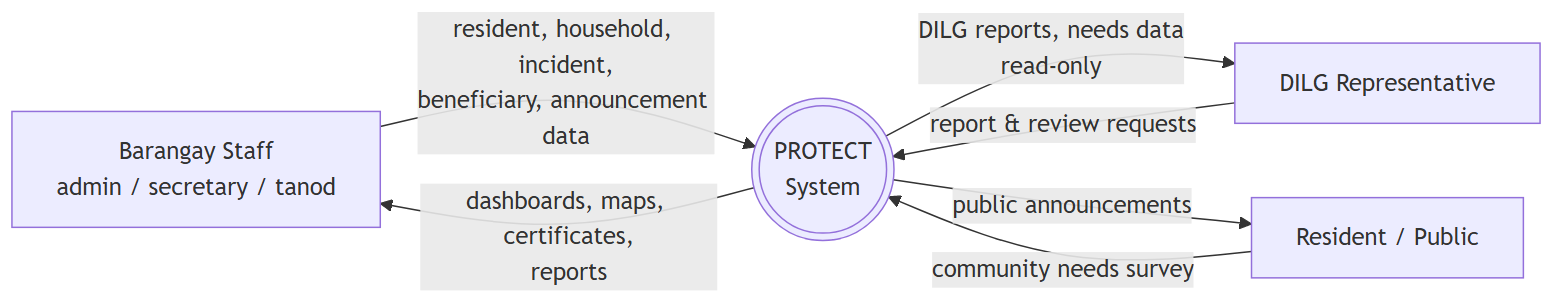
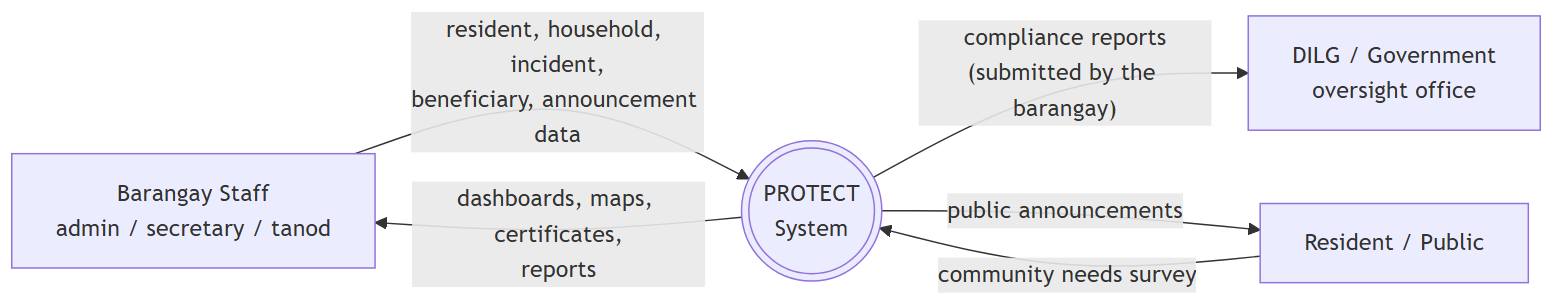
Remove dilg_rep role; model DILG as external report recipient
The DILG does not log into the system — the barangay generates DILG
reports and submits them. Removed the dilg_rep login role from
permissions, User Management, docs, and the SQL constraint (with a
migration of any existing dilg_rep accounts to viewer). DILG now appears
only as an external entity in the DFD. Removed the DILG actor from the
Use Case diagram and re-rendered the affected diagrams; synced the
embedded DIAGRAMS.md flowchart/DFD blocks.

diff --git a/src/lib/permissions.js b/src/lib/permissions.js
@@ -3,7 +3,6 @@ export const ROLE_LABELS = {
   officer:  'Barangay Officer',
   brgy_sec: 'Barangay Secretary',
   tanod:    'Barangay Tanod',
-  dilg_rep: 'DILG Representative',
   viewer:   'Viewer',
 }
 
@@ -15,7 +14,6 @@ export const ROLE_ROUTES = {
   officer:  ALL_ROUTES,
   brgy_sec: ALL_ROUTES,
   tanod:    ['/', '/crime-map', '/crime'],
-  dilg_rep: ['/', '/reports', '/needs'],
   viewer:   ['/', '/residents', '/qr', '/population', '/poverty', '/sectors', '/gis', '/crime-map', '/disaster', '/beneficiary', '/crime', '/predictive', '/needs'],
 }
 
@@ -25,7 +23,7 @@ export function canAccess(role, path) {
 }
 
 // Roles that may only VIEW data — no create / edit / delete / import.
-export const READONLY_ROLES = ['viewer', 'dilg_rep']
+export const READONLY_ROLES = ['viewer']
 
 // True if the role is allowed to make changes (add/edit/delete).
 export function canEdit(role) {

diff --git a/src/pages/UserManagement.jsx b/src/pages/UserManagement.jsx
@@ -13,7 +13,6 @@ const ROLE_BADGE = {
   officer:  'teal',
   brgy_sec: 'blue',
   tanod:    'gold',
-  dilg_rep: 'purple',
   viewer:   'gray',
 }
 
@@ -120,7 +119,6 @@ export default function UserManagement() {
             { role: 'officer',  pages: 'All pages — full system access' },
             { role: 'brgy_sec', pages: 'All pages — full system access' },
             { role: 'tanod',    pages: 'Dashboard, Crime Hotspot Map, Crime & Incident' },
-            { role: 'dilg_rep', pages: 'Dashboard, DILG Reports, Needs Assessment' },
             { role: 'viewer',   pages: 'Most pages — no QR Verification or DILG Reports' },
           ].map(({ role, pages }) => (
             <div key={role} className="flex gap-3 p-3 rounded-xl border border-gray-100 bg-gray-50">

diff --git a/DIAGRAMS.md b/DIAGRAMS.md
@@ -15,8 +15,11 @@ Three diagrams for the capstone documentation, derived from the actual system:
 |-------|--------|
 | **Barangay Secretary / Officer** (admin · officer · brgy_sec) | Everything — resident/household profiling, GIS, QR + documents, beneficiaries + assistance, announcements, incidents + status, hotspot + disaster maps, analytics, predictive, needs, DILG reports |
 | **Barangay Tanod** | Login, Log Crime/Incident, Update Incident Status, View Crime Hotspot Map |
-| **DILG Representative** (read-only) | Login, Generate DILG Reports, View Needs Assessment |
 | **Resident / Public** (no login) | Submit Community Needs, View Public Announcements |
+
+> The **DILG / Government** is *not* a system user — it's the external office that **receives**
+> the compliance reports the barangay generates and submits. It appears in the DFD as an
+> external entity, not as a login role.
 
 > All diagrams use **Mermaid**. They render automatically on GitHub. To export an
 > image for your paper, paste a block into <https://mermaid.live> and download as PNG/SVG.
@@ -36,80 +39,38 @@ How a user moves through the system: login → role check → permitted modules 
 
 ```mermaid
 flowchart TD
-    Start([User opens PROTECT]) --> Mode{Logged in?}
+    Start([Start]) --> Open[User opens PROTECT]
+    Open --> Access{Public link or staff login?}
 
-    %% ---------- PUBLIC PORTAL (no login) ----------
-    Mode -- "No · public link" --> Pub[/Public Announcements portal/]
-    Pub --> PubAct{What do they do?}
-    PubAct -- Read --> PubRead[View active announcements]
-    PubAct -- Submit needs --> PubForm[Fill Community Needs form]
-    PubForm --> SaveSurvey[(Save to survey_responses)]
-    PubRead --> PubEnd([Leave site])
-    SaveSurvey --> PubEnd
+    %% Public (no login)
+    Access -- Public --> Pub[Public Announcements / Needs portal] --> J((J))
 
-    %% ---------- STAFF LOGIN ----------
-    Mode -- "Staff login" --> Login[Login page]
-    Login --> Auth[Supabase Auth verifies email & password]
-    Auth --> Valid{Credentials valid?}
-    Valid -- No --> Login
-    Valid -- Yes --> LoadRole[Load profile and role]
+    %% Staff login with rate limiting
+    Access -- Staff login --> Fail{5+ failed attempts?}
+    Fail -- Yes --> Lock[Locked 15 mins]
+    Fail -- No --> Auth{Supabase Auth valid?}
+    Auth -- Invalid --> Fail
+    Auth -- Yes --> Dash[Community Dashboard]
 
-    LoadRole --> Route{Role-based menu}
-    Route -- "admin / officer / brgy_sec" --> RAll[All modules]
-    Route -- tanod --> RT[Dashboard · Crime Hotspot · Crime & Incident]
-    Route -- dilg_rep --> RD[Dashboard · DILG Reports · Needs Assessment<br/>read-only]
-    Route -- viewer --> RV[Read-only dashboards]
+    %% Module selection (filtered by role) -> off-page connectors
+    Dash --> Sel{Select module from dashboard<br/>menu filtered by role}
+    Sel --> M1[Resident Profiling] --> A((A))
+    Sel --> M2[QR Verification] --> B((B))
+    Sel --> M3[GIS Household Map] --> C((C))
+    Sel --> M4[Disaster Vulnerability] --> D((D))
+    Sel --> M5[Crime & Incident] --> E((E))
+    Sel --> M6[Crime Hotspot Map] --> F((F))
+    Sel --> M7[Beneficiary Tracking] --> G((G))
+    Sel --> M8[Analytics Dashboards] --> H((H))
+    Sel --> M9[Predictive Growth] --> I((I))
+    Sel --> M10[Announcements & Needs] --> J
+    Sel --> M11[DILG Reports] --> K((K))
 
-    RAll --> Module
-    RT --> Module
-    RD --> Module
-    RV --> Module
-
-    Module[/Open a module/] --> Which{Which module?}
-    Which -- Resident Profiling --> Res[Add / edit / search residents,<br/>CSV import, PII masking]
-    Which -- GIS Household Map --> Gis[Pin household,<br/>view members & sector flags]
-    Which -- Crime & Incident --> Inc[Log incident + photo,<br/>update status:<br/>Ongoing / Resolved / Escalated / Dismissed]
-    Which -- "Hotspot / Disaster maps" --> Maps[View crime heatmap,<br/>pins, risk zones]
-    Which -- Beneficiary Tracking --> Ben[Enroll, edit, record aid release,<br/>manage programs]
-    Which -- QR Verification --> Qr[Scan resident QR code]
-    Which -- Announcements --> Ann[Post / hide announcement<br/>+ image upload]
-    Which -- "Analytics / Predictive" --> Cht[View charts & population forecast]
-    Which -- DILG Reports --> Rep[Compile barangay report]
-
-    %% ---------- QR SUB-FLOW ----------
-    Qr --> QrType{Purpose?}
-    QrType -- Document request --> Doc[Preview filled barangay document]
-    Doc --> Print[Print for Punong Barangay signature]
-    QrType -- Assistance claim --> Rel[Verify household head,<br/>record aid release]
-
-    %% ---------- WRITE / PERMISSION GATE ----------
-    Res --> Gate
-    Gis --> Gate
-    Inc --> Gate
-    Ben --> Gate
-    Ann --> Gate
-    Rel --> Gate
-    Gate{Create / edit / delete?}
-    Gate -- "Yes · canEdit role" --> Write[Write to Supabase]
-    Gate -- "No · read-only role" --> Block[Edit controls hidden / blocked]
-    Write --> Audit[(DB trigger writes audit_log)]
-    Write --> Refresh[Refresh cache, re-render UI]
-
-    %% ---------- READ / OUTPUT ----------
-    Rep --> Export{Export PDF?}
-    Export -- Yes --> Pdf[Generate PDF report]
-    Export -- No --> Show
-    Pdf --> Show
-    Maps --> Show
-    Cht --> Show
-    Print --> Show
-    Refresh --> Show
-    Block --> Show
-    Show([Information displayed / action complete])
-
-    Show --> Logout{Log out?}
-    Logout -- No --> Module
-    Logout -- Yes --> End([Session ends])
+    %% Shared return connector from every sub-flowchart
+    R((R)) --> Backend[Supabase Backend — PostgreSQL · Row Level Security · Auth · Real-time]
+    Backend --> Cont{Continue session?}
+    Cont -- Yes --> Dash
+    Cont -- No --> Out([User logs out])
 ```
 
 ---
@@ -121,7 +82,7 @@ The whole system as one process, showing the external entities and what flows in
 ```mermaid
 flowchart LR
     Staff[Barangay Staff<br/>admin / secretary / tanod]
-    DILGrep[DILG Representative]
+    DILG[DILG / Government<br/>oversight office]
     Public[Resident / Public]
 
     System(((PROTECT<br/>System)))
@@ -129,8 +90,7 @@ flowchart LR
     Staff -- resident, household, incident,<br/>beneficiary, announcement data --> System
     System -- dashboards, maps, certificates,<br/>reports --> Staff
 
-    DILGrep -- report & review requests --> System
-    System -- DILG reports, needs data<br/>read-only --> DILGrep
+    System -- compliance reports<br/>(submitted by the barangay) --> DILG
 
     Public -- community needs survey --> System
     System -- public announcements --> Public
@@ -147,7 +107,7 @@ The major processes, the data stores they use, and the flows between them.
 flowchart TD
     %% ---- External entities ----
     Staff[Barangay Staff]
-    DILGrep[DILG Rep]
+    DILG[DILG / Government]
     Public[Resident / Public]
 
     %% ---- Processes ----
@@ -170,7 +130,6 @@ flowchart TD
 
     %% ---- Auth ----
     Staff --> P1
-    DILGrep --> P1
     P1 --> D1
 
     %% ---- Residents / households ----
@@ -203,11 +162,11 @@ flowchart TD
 
     %% ---- Analytics / reports ----
     Staff --> P7
-    DILGrep --> P7
     D2 --> P7
     D3 --> P7
     D4 --> P7
     D7 --> P7
+    P7 --> DILG
 ```
 
 ### Process ↔ data store key

diff --git a/DATA_MODEL.md b/DATA_MODEL.md
@@ -33,7 +33,7 @@ One row per Supabase Auth user (created automatically by a trigger on signup).
 |--------|------|-------|
 | 🔑 🔗 `id` | uuid | = `auth.users.id` (1-to-1) |
 | *`full_name`* | text | |
-| `role` | text | one of: `admin`, `officer`, `brgy_sec`, `tanod`, `dilg_rep`, `viewer` |
+| `role` | text | one of: `admin`, `officer`, `brgy_sec`, `tanod`, `viewer` |
 | *`barangay`* | text | |
 | `created_at` | timestamptz | |
 
@@ -343,8 +343,8 @@ Which screen reads (R) / writes (W) which table:
 | `admin` / `officer` | full system |
 | `brgy_sec` (Barangay Secretary) | full system (all modules) |
 | `tanod` | Dashboard, Crime Hotspot Map, Crime & Incident only |
-| `dilg_rep` | Dashboard, DILG Reports, Needs Assessment only — **read-only** |
 | `viewer` | read-only |
 
-Write actions are gated by `canEdit(role)`; read-only roles (`viewer`, `dilg_rep`) see no
-edit/delete controls.
+Write actions are gated by `canEdit(role)`; the read-only `viewer` role sees no
+edit/delete controls. The DILG is **not** a system user — the barangay generates the
+DILG-compliant reports and submits them to the DILG (an external recipient).

diff --git a/ARCHITECTURE.md b/ARCHITECTURE.md
@@ -75,7 +75,6 @@ ROLE_ROUTES = {
   officer:  [all pages],
   brgy_sec: [all pages],
   tanod:    ['/', '/crime-map', '/crime'],      // only 3 pages
-  dilg_rep: ['/', '/reports', '/needs'],         // only 3 pages
   viewer:   [most pages, no admin/QR],
 }
 ```

diff --git a/DATA_PRIVACY.md b/DATA_PRIVACY.md
@@ -36,7 +36,6 @@ The system uses **Role-Based Access Control (RBAC)** with 6 defined roles:
 | `officer` | Full access — same as admin |
 | `brgy_sec` | Full access — Barangay Secretary |
 | `tanod` | Limited — Dashboard, Crime Hotspot Map, Crime & Incident only |
-| `dilg_rep` | Limited — Dashboard, DILG Reports, Needs Assessment only |
 | `viewer` | Read-only on most pages; no QR Verification or DILG Reports |
 
 - Every protected route is wrapped in a `<RoleRoute>` component that checks `canAccess(role, path)` before rendering

diff --git a/TESTING_GUIDE.md b/TESTING_GUIDE.md
@@ -38,7 +38,6 @@ Basco, Batanes · Capstone Project
 | admin | Everything |
 | officer | Most pages except some restricted |
 | tanod | Crime & Incident only |
-| dilg_rep | Reports & Analytics |
 | viewer | Read-only on select pages |
 
 ---